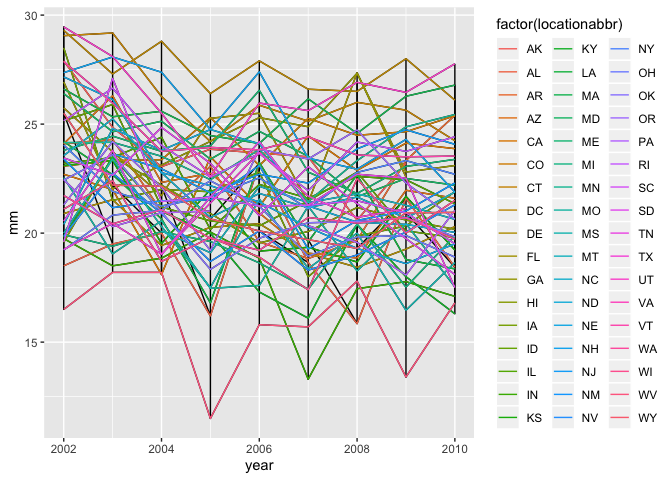
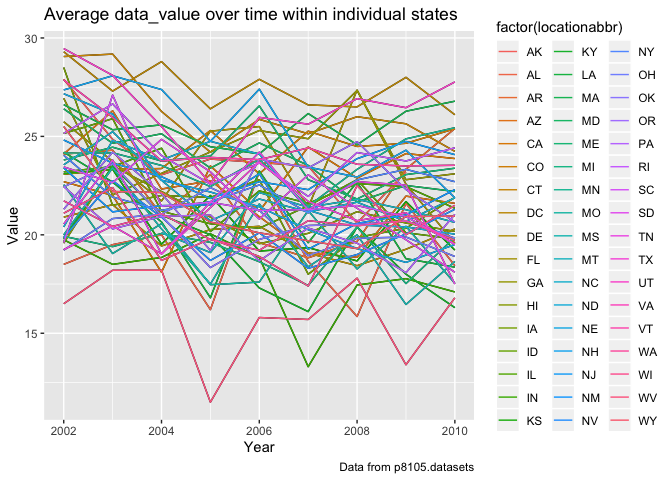
Problem 2 -- 2nd commit

diff --git a/p8105_hw3_sl4659.md b/p8105_hw3_sl4659.md
@@ -92,10 +92,10 @@ aisle_10000 = filter(aisle_df, n > 10000)
 # Basic barplot
 ggplot(data = aisle_10000, aes(x = reorder(aisle, n), y = n, fill = "red")) +
   geom_bar(stat = "identity") + 
-# Horizontal barplot
+# horizontal barplot
   coord_flip() +
   guides(fill = FALSE) +
-# Title, label and caption
+# title, label and caption
   labs(
     title = "Aisles with more than 10000 items ordered",
     x = "Aisle",
@@ -173,10 +173,10 @@ brfss = janitor::clean_names(brfss_smart2010)
 # focus on the “Overall Health” topic
 brfss = filter(brfss, topic == "Overall Health")
 # include only responses from “Excellent” to “Poor”
-brfss = filter(brfss, response == "Excellent" | response == "Very Good" | response == "Good" | response == "Fair" | response == "Poor")
+brfss = filter(brfss, response == "Excellent" | response == "Very good" | response == "Good" | response == "Fair" | response == "Poor")
 # organize responses as a factor taking levels ordered from “Poor” to “Excellent”
 brfss$response = as.factor(brfss$response)
-brfss$response = factor(brfss$response, levels = c("Poor", "Fair", "Good", "Very Good", "Excellent"))
+brfss$response = factor(brfss$response, levels = c("Poor", "Fair", "Good", "Very good", "Excellent"))
 ```
 
 ``` r
@@ -201,24 +201,46 @@ NC, NJ, PA. These states were observed at 7 or more locations in 2010:
 CA, CO, FL, MA, MD, NC, NE, NJ, NY, OH, PA, SC, TX, WA.
 
 ``` r
-# Construct a dataset that is limited to Excellent responses
+# construct a dataset that is limited to Excellent responses
 brfss_spa = filter(brfss, response == "Excellent")
-# contains year and state
+# contain year and state
 brfss_spa = select(brfss_spa, year, locationabbr, data_value)
+brfss_spa = drop_na(brfss_spa, data_value)
 keys = colnames(brfss_spa)[!grepl('data_value', colnames(brfss_spa))]
 X = as.data.table(brfss_spa)
-brfss_spa = X[,list(mm = mean(data_value)),keys]
-# Multiple groups with one aesthetic
-ggplot(data = brfss_spa, aes(x = year, y = mm)) + 
-# A single line tries to connect all the observations
-  geom_line() +
-# The group aesthetic maps a different line for each subject
+brfss_spa = X[,list(mean_value = mean(data_value)),keys]
+# multiple groups with one aesthetic
+ggplot(data = brfss_spa, aes(x = year, y = mean_value)) + 
+# the group aesthetic maps a different line for each subject
   geom_line(aes(group = locationabbr)) +
-  geom_line(aes(colour = factor(locationabbr)))
+  geom_line(aes(colour = factor(locationabbr)))  +
+# title, label and caption
+  labs(
+    title = "Average data_value over time within individual states",
+    x = "Year",
+    y = "Value",
+    caption = "Data from p8105.datasets"
+  )
 ```
 
-    ## Warning: Removed 3 rows containing missing values (geom_path).
-    
-    ## Warning: Removed 3 rows containing missing values (geom_path).
-
 ![](p8105_hw3_sl4659_files/figure-gfm/Problem2P2-1.png)<!-- -->
+
+``` r
+# construct a dataset that is limited to locations in NY State
+brfss_tp = filter(brfss, locationabbr == "NY")
+# constrct a dataset that is limited to year 2006 and 2010
+brfss_tp = filter(brfss_tp, year == 2006 | year == 2010)
+ggplot(data = brfss_tp, aes(x = response, y = data_value)) +
+  geom_boxplot() +
+# facet into columns based on year
+  facet_grid(. ~ year) +
+# title, label and caption
+  labs(
+    title = "Boxplot of data_value for responses in NY State in Year 2006 and 2010",
+    x = "Response",
+    y = "Value",
+    caption = "Data from p8105.datasets"
+  )
+```
+
+![](p8105_hw3_sl4659_files/figure-gfm/Problem2P3-1.png)<!-- -->
